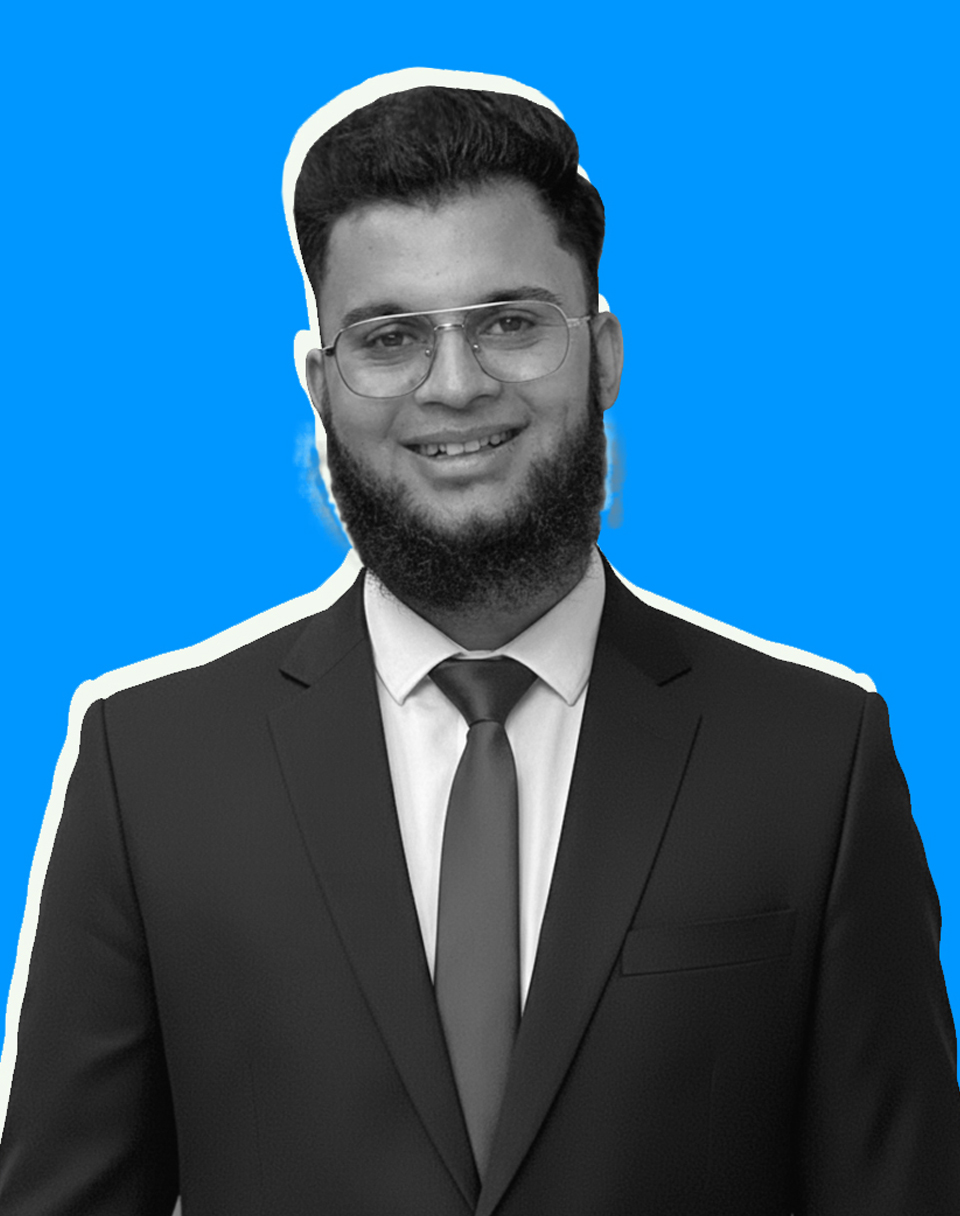
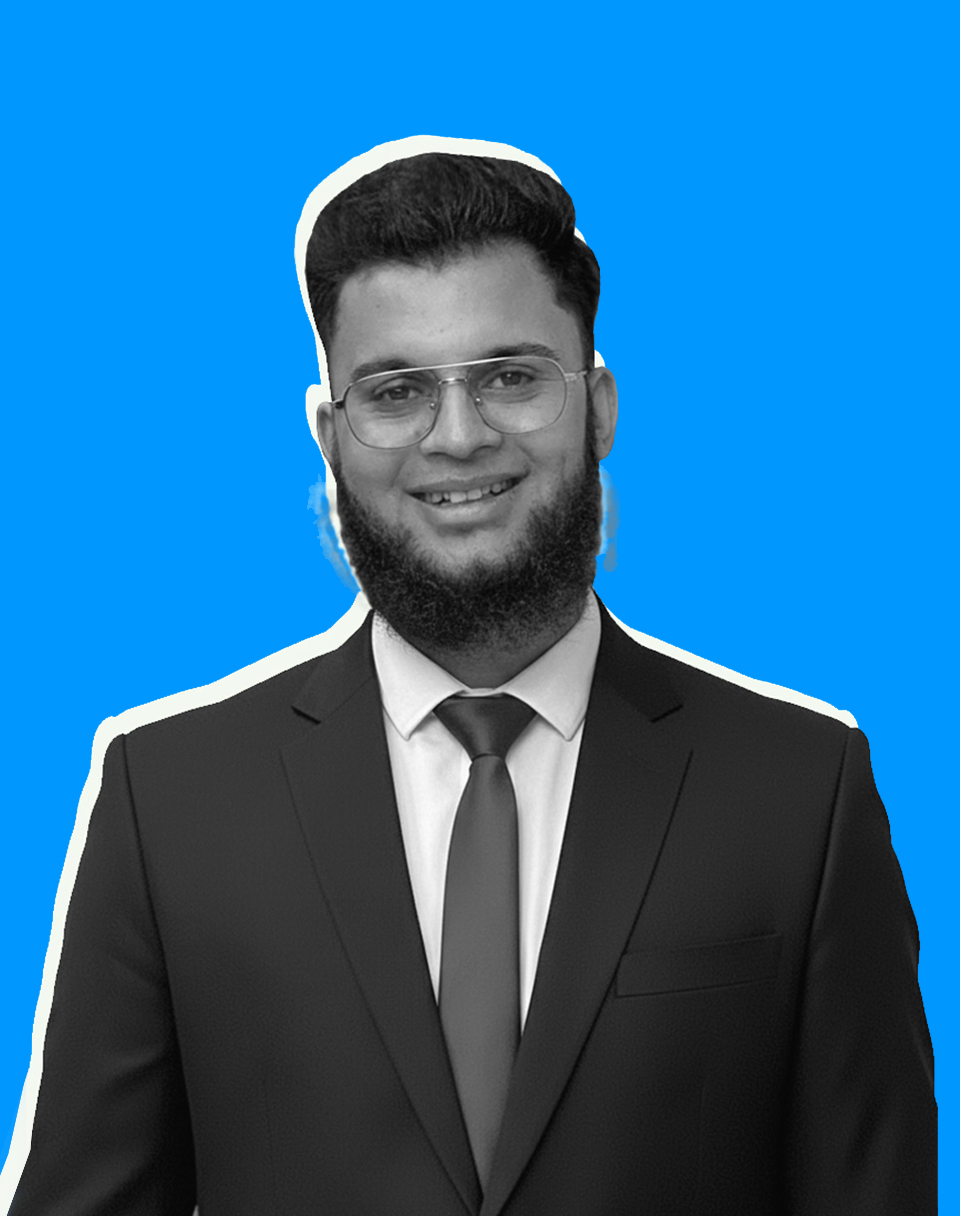
New updates

diff --git a/app/components/FiverrSection.tsx b/app/components/FiverrSection.tsx
@@ -128,10 +128,11 @@ const InfiniteMovingCards = ({
           <li
             key={`${item.name}-${idx}`}
             className={cn(
-              "relative w-[280px] h-[200px] shrink-0 rounded-2xl border px-6 py-6 md:w-[360px] lg:w-[400px] transition-transform duration-300 ease-in-out hover:scale-[1.02] hover:shadow-2xl",
-              theme === "dark"
-                ? "bg-bg3 border-gray-700 text-white"
-                : "bg-white border-zinc-200 text-black"
+              "relative w-[280px] h-[200px] shrink-0 rounded-2xl px-6 py-6 md:w-[360px] lg:w-[400px]",
+              "border border-white/30",
+              "bg-white/80 backdrop-blur-xl",
+              "shadow-[0_8px_30px_rgba(0,0,0,0.12)]",
+              "transition-transform duration-300 ease-in-out hover:scale-[1.02] hover:shadow-2xl"
             )}
           >
             <div className="absolute -top-8 right-4 w-12 h-12 sm:w-16 sm:h-16 md:w-20 md:h-20 lg:w-24 lg:h-24 rounded-full overflow-hidden shadow-md">
@@ -146,21 +147,11 @@ const InfiniteMovingCards = ({
 
             {/* Content */}
             <blockquote className="relative z-10 flex flex-col text-left">
-              <h3
-                className={cn(
-                  "text-xl font-extrabold",
-                  theme === "dark" ? "text-white" : "text-gray-900"
-                )}
-              >
+              <h3 className="text-xl font-extrabold text-gray-900">
                 {item.name}
               </h3>
 
-              <p
-                className={cn(
-                  "text-lg font-semibold mb-1",
-                  theme === "dark" ? "text-gray-300" : "text-gray-800"
-                )}
-              >
+              <p className="text-lg font-semibold mb-1 text-gray-800">
                 {item.title}
               </p>
               <div className="flex items-center gap-1 text-[#1dbf73] mb-2">
@@ -169,12 +160,7 @@ const InfiniteMovingCards = ({
                 ))}
               </div>
               <div className="flex flex-col gap-3">
-                <p
-                  className={cn(
-                    "text-sm leading-relaxed font-normal",
-                    theme === "dark" ? "text-gray-300" : "text-gray-700"
-                  )}
-                >
+                <p className="text-sm leading-relaxed font-normal text-gray-700">
                   {item.quote}
                 </p>
               </div>
@@ -218,22 +204,45 @@ export default function FiverrSection() {
           href="https://www.fiverr.com/your_profile_here"
           target="_blank"
           rel="noopener noreferrer"
-          className="
-      inline-flex items-center gap-2
+          className="relative inline-flex items-center gap-2
       px-8 py-3 rounded-xl font-semibold text-white
       bg-[#1dbf73]
-      shadow-md
       transition-all duration-300 ease-out
       hover:bg-[#08bd69]
       hover:-translate-y-1
       hover:shadow-[0_10px_30px_rgba(29,191,115,0.35)]
       active:translate-y-0
-      active:shadow-md
-    "
+      group"
         >
-          Visit Fiverr Profile
-          <span className="transition-transform duration-300 group-hover:translate-x-1">
-            →
+          {/* SVG border */}
+          <svg
+            className="pointer-events-none absolute inset-0"
+            width="100%"
+            height="100%"
+            viewBox="0 0 100 40"
+            preserveAspectRatio="none"
+          >
+            <rect
+              x="1"
+              y="1"
+              width="98"
+              height="38"
+              rx="12"
+              ry="12"
+              fill="none"
+              stroke="white"
+              strokeWidth="2"
+              strokeDasharray="20 80"
+              className="animate-border-dash"
+            />
+          </svg>
+
+          {/* Content */}
+          <span className="relative z-10 flex items-center gap-2">
+            Visit Fiverr Profile
+            <span className="transition-transform duration-300 group-hover:translate-x-1">
+              →
+            </span>
           </span>
         </a>
       </div>

diff --git a/app/ourteam/page.tsx b/app/ourteam/page.tsx
@@ -18,7 +18,7 @@ const team = [
   },
   {
     name: "Muhammad Zohaib",
-    role: "Full Stack Developer & SEO Specialist",
+    role: "Full Stack Developer",
     image: "/images/team/zohaib.jpg",
   },
   {
@@ -30,11 +30,11 @@ const team = [
 
 export default function OurTeamPage() {
   return (
-    <section className="w-full py-20 px-4">
+    <section className="w-full pt-28 px-4">
       {/* Heading */}
-      <div className="max-w-6xl mx-auto text-center mb-16">
+      <div className="max-w-6xl mx-auto text-center mb-10">
         <h1 className="text-4xl md:text-5xl font-bold mb-4">Meet Our Team</h1>
-        <p className="text-gray-500 max-w-2xl mx-auto">
+        <p className=" max-w-2xl mx-auto">
           A passionate team of creators, developers, and strategists working
           together to build impactful digital solutions.
         </p>
@@ -45,7 +45,7 @@ export default function OurTeamPage() {
         {team.map((member, index) => (
           <div
             key={index}
-            className="relative rounded-3xl bg-white dark:bg-zinc-900 shadow-lg transition hover:-translate-y-1"
+            className="relative rounded-3xl shadow-lg transition hover:-translate-y-1"
           >
             {/* Image */}
             <div className="relative h-64 rounded-t-3xl  overflow-hidden">
@@ -58,9 +58,9 @@ export default function OurTeamPage() {
             </div>
 
             {/* OVERLAPPING WHITE BOX */}
-            <div className="relative z-10 -mt-4 bg-white dark:bg-zinc-900 rounded-t-3xl p-2 text-center">
-              <h1 className="text-lg font-bold">{member.name}</h1>
-              <h2 className="text-sm text-gray-500">{member.role}</h2>
+            <div className="relative z-10 -mt-4 bg-white rounded-t-3xl rounded-b-3xl p-2 text-center">
+              <h1 className="text-lg text-black font-bold">{member.name}</h1>
+              <h2 className="text-sm text-gray-700">{member.role}</h2>
             </div>
           </div>
         ))}

diff --git a/app/globals.css b/app/globals.css
@@ -80,15 +80,12 @@ body {
   display: none;
 }
 
-@keyframes scrollRight {
-  0% {
-    transform: translateX(-100%);
-  }
-  100% {
-    transform: translateX(100%);
+@keyframes border-dash {
+  to {
+    stroke-dashoffset: -100;
   }
 }
 
-.animate-scroll-right {
-  animation: scrollRight 12s linear infinite;
+.animate-border-dash {
+  animation: border-dash 2.5s linear infinite;
 }
